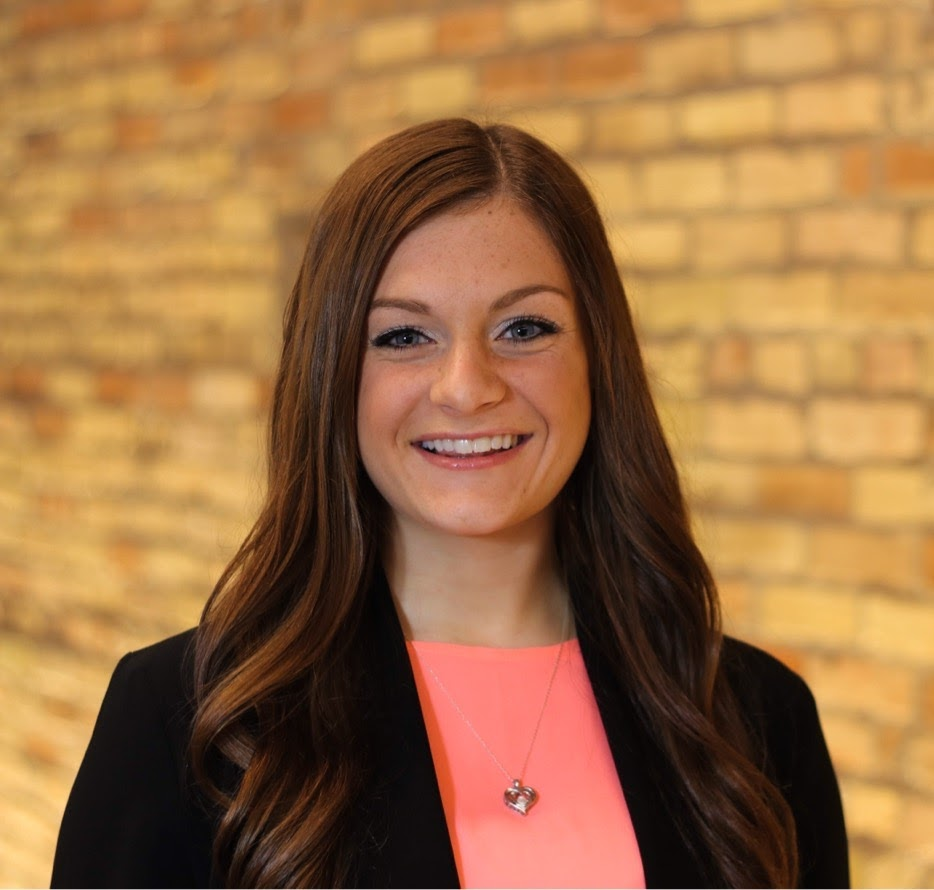
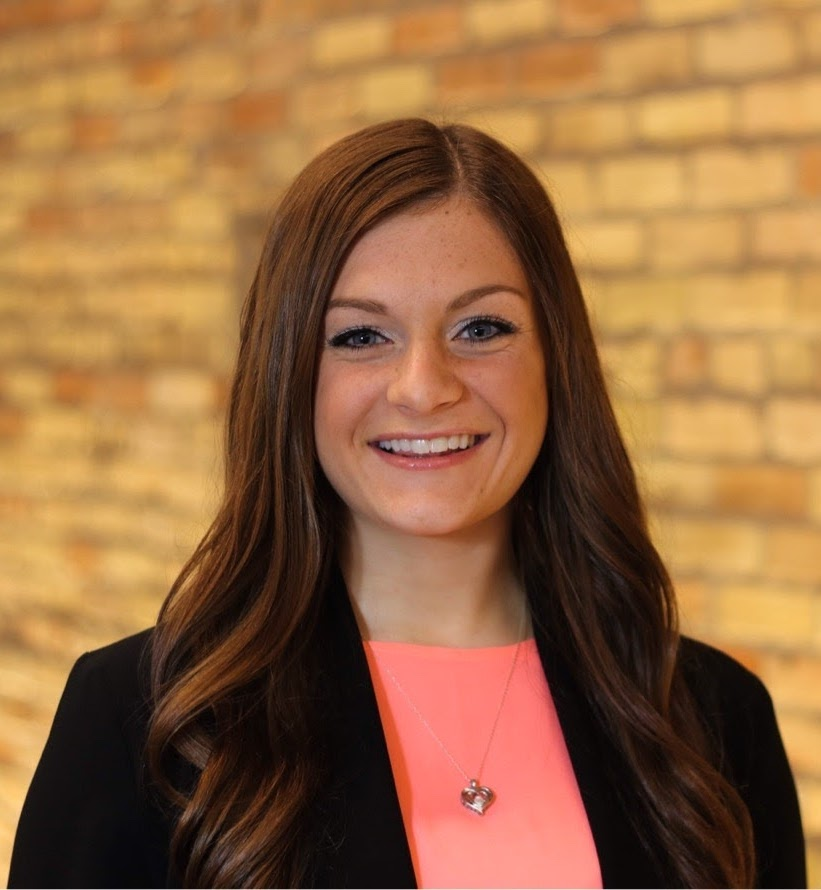
changes to pictures, tabs, removing files

diff --git a/index.html b/index.html
@@ -3,7 +3,8 @@
 	<head>
 		<title>Lexi Roberts</title>
 		<!--meta charset="UTF-8"-->
-		<link href="http://fonts.googleapis.com/css?family=Source+Sans+Pro:300,400" rel="stylesheet">
+		<!--link href="http://fonts.googleapis.com/css?family=Source+Sans+Pro:300,400" rel="stylesheet"-->
+		<script src="https://kit.fontawesome.com/yourcode.js"></script>
 		<script src="js/jquery-1.9.1.min.js"></script>
 		<script src="css/5grid/init.js?use=mobile,desktop"></script>
 		<script src="js/jquery.formerize-1.1.js"></script>
@@ -19,97 +20,110 @@
 		</noscript>
 	</head>
 	<body class="homepage">
-	<div id="wrapper">
-		<nav id="nav"> 
-	  		<a href="#me" class="icon icon-user active"><span>Me</span></a>
-	  		<a href="#work" class="icon icon-folder"><span>Work</span></a>
-	  		<a href="#email" class="icon icon-mail"><span>Email Me</span></a>
-	  		<a href="#" class="icon icon-twitter"><span>Twitter</span></a>
-	  	</nav>
-	<div id="main">
-	    <article id="me" class="panel">
-	      	<header>
-	        	<h1>Lexi Roberts</h1>
-	        	<span class="byline">Aspiring Computer Engineer</span>
-	        </header>
-	      	<a href="#work" class="jumplink pic"> 
-	      		<span class="jumplink arrow icon icon-right"><span>See my work.</span></span>
-	      		<img src="images/me.jpg" alt=""> 
-	      	</a> 
-	    </article>
-	    <article id="work" class="panel">
-	      	<header>
-	        	<h2>Work</h2>
-	      	</header>
-	      		<p> This is a sentence. </p>
-	      	<section class="5grid is-gallery">
-	        <div class="row">
-	          <div class="4u"> <a href="#" class="image image-full"><img src="images/1.jpg" alt=""></a> </div>
-	          <div class="4u"> <a href="#" class="image image-full"><img src="images/2.jpg" alt=""></a> </div>
-	          <div class="4u"> <a href="#" class="image image-full"><img src="images/3.jpg" alt=""></a> </div>
-	        </div>
-	        <div class="row">
-	          <div class="4u"> <a href="#" class="image image-full"><img src="images/4.jpg" alt=""></a> </div>
-	          <div class="4u"> <a href="#" class="image image-full"><img src="images/5.jpg" alt=""></a> </div>
-	          <div class="4u"> <a href="#" class="image image-full"><img src="images/6.jpg" alt=""></a> </div>
-	        </div>
-	        <div class="row">
-	          <div class="4u"> <a href="#" class="image image-full"><img src="images/7.jpg" alt=""></a> </div>
-	          <div class="4u"> <a href="#" class="image image-full"><img src="images/8.jpg" alt=""></a> </div>
-	          <div class="4u"> <a href="#" class="image image-full"><img src="images/9.jpg" alt=""></a> </div>
-	        </div>
-	        <div class="row">
-	          <div class="4u"> <a href="#" class="image image-full"><img src="images/10.jpg" alt=""></a> </div>
-	          <div class="4u"> <a href="#" class="image image-full"><img src="images/11.jpg" alt=""></a> </div>
-	          <div class="4u"> <a href="#" class="image image-full"><img src="images/12.jpg" alt=""></a> </div>
-	        </div>
-	        <div class="row">
-	          <div class="4u"> <a href="#" class="image image-full"><img src="images/13.jpg" alt=""></a> </div>
-	          <div class="4u"> <a href="#" class="image image-full"><img src="images/14.jpg" alt=""></a> </div>
-	          <div class="4u"> <a href="#" class="image image-full"><img src="images/15.jpg" alt=""></a> </div>
-	        </div>
-	      </section>
-	    </article>
-	    <article id="email" class="panel">
-	      <header>
-	        <h2>Email Me</h2>
-	      </header>
-	      <form action="#" method="post">
-	        <div class="5grid">
-	          <div class="row">
-	            <div class="6u">
-	              <input type="text" class="text" name="name" placeholder="Name">
-	            </div>
-	            <div class="6u">
-	              <input type="text" class="text" name="email" placeholder="Email">
-	            </div>
-	          </div>
-	          <div class="row">
-	            <div class="12u">
-	              <input type="text" class="text" name="subject" placeholder="Subject">
-	            </div>
-	          </div>
-	          <div class="row">
-	            <div class="12u">
-	              <textarea name="message" placeholder="Message"></textarea>
-	            </div>
-	          </div>
-	          <div class="row">
-	            <div class="12u">
-	              <input type="submit" class="button" value="Send Message">
-	            </div>
-	          </div>
-	        </div>
-	      </form>
-	    </article>
-	  </div>
-	  <div id="footer">
-	    <ul class="links">
-	      <li>&copy; Lexi Roberts</li>
-	      <!--<li>Images : <a href="http://fotogrph.com/">fotogrph</a></li>
-	      <li>Design : <a href="http://html5up.net/">HTML5 Up!</a></li>-->
-	    </ul>
-	  </div>
-	</div>
+		<div id="wrapper">
+			<nav id="nav"> 
+		  		<a href="#me" class="icon icon-user active"><span>About Me</span></a>
+		  		<a href="#resume" class="icon icon-file"><span>Resume</span></a>
+		  		<a href="#work" class="icon icon-folder"><span>Work</span></a>
+		  		<a href="#email" class="icon icon-mail"><span>Email Me</span></a>
+		  		<a href="#" class="icon icon-twitter"><span>Twitter</span></a>
+		  	</nav>
+			<div id="main">
+			    
+			    <article id="me" class="panel">
+			      	<header>
+			        	<h1>Lexi Roberts</h1>
+			        	<span class="byline">Aspiring Computer Engineer</span>
+			        </header>
+			      	<a href="#resume" class="jumplink pic"> 
+			      		<span class="jumplink arrow icon icon-right"><span>See my work.</span></span>
+			      		<img src="images/lexi_crop2.jpg" alt=""> 
+			      	</a> 
+			    </article>
+			    
+			    <article id="resume" class="panel">
+			    	<div class="row">
+	            		<div class="12u">
+	              			<input class="button" value="Download Now">
+	            		</div>
+	          		</div>
+			    </article>
+
+			    <article id="work" class="panel">
+			      	<header>
+			        	<h2>Work</h2>
+			      	</header>
+			      	<p> This is a sentence. </p>
+			      	<section class="5grid is-gallery">
+			        	<div class="row">
+			          		<div class="4u"> <a href="#" class="image image-full"><img src="images/1.jpg" alt=""></a> </div>
+			          		<div class="4u"> <a href="#" class="image image-full"><img src="images/2.jpg" alt=""></a> </div>
+			          		<div class="4u"> <a href="#" class="image image-full"><img src="images/3.jpg" alt=""></a> </div>
+			        	</div>
+			        	<div class="row">
+			          		<div class="4u"> <a href="#" class="image image-full"><img src="images/4.jpg" alt=""></a> </div>
+			          		<div class="4u"> <a href="#" class="image image-full"><img src="images/5.jpg" alt=""></a> </div>
+			          		<div class="4u"> <a href="#" class="image image-full"><img src="images/6.jpg" alt=""></a> </div>
+			        	</div>
+			        	<div class="row">
+			          		<div class="4u"> <a href="#" class="image image-full"><img src="images/7.jpg" alt=""></a> </div>
+			          		<div class="4u"> <a href="#" class="image image-full"><img src="images/8.jpg" alt=""></a> </div>
+			          		<div class="4u"> <a href="#" class="image image-full"><img src="images/9.jpg" alt=""></a> </div>
+			        	</div>
+			        	<div class="row">
+			          		<div class="4u"> <a href="#" class="image image-full"><img src="images/10.jpg" alt=""></a> </div>
+			          		<div class="4u"> <a href="#" class="image image-full"><img src="images/11.jpg" alt=""></a> </div>
+			          		<div class="4u"> <a href="#" class="image image-full"><img src="images/12.jpg" alt=""></a> </div>
+			       		</div>
+			        	<div class="row">
+			          		<div class="4u"> <a href="#" class="image image-full"><img src="images/13.jpg" alt=""></a> </div>
+			          		<div class="4u"> <a href="#" class="image image-full"><img src="images/14.jpg" alt=""></a> </div>
+			          		<div class="4u"> <a href="#" class="image image-full"><img src="images/15.jpg" alt=""></a> </div>
+			        	</div>
+			      	</section>
+			    </article>
+			    
+			    <article id="email" class="panel">
+			      	<header>
+			        	<h2>Email Me</h2>
+			      	</header>
+			      	<form action="#" method="post">
+			        	<div class="5grid">
+			          		<div class="row">
+			            		<div class="6u">
+			              			<input type="text" class="text" name="name" placeholder="Name">
+			            		</div>
+			            		<div class="6u">
+			              			<input type="text" class="text" name="email" placeholder="Email">
+			            		</div>
+			          		</div>
+			          		<div class="row">
+			            		<div class="12u">
+			              			<input type="text" class="text" name="subject" placeholder="Subject">
+			            		</div>
+			          		</div>
+			          		<div class="row">
+			            		<div class="12u">
+			              			<textarea name="message" placeholder="Message"></textarea>
+			            		</div>
+			          		</div>
+			          		<div class="row">
+			            		<div class="12u">
+			              			<input type="submit" class="button" value="Send Message">
+			            		</div>
+			          		</div>
+			        	</div>
+			      	</form>
+			   </article>
+			
+			</div>
+			<div id="footer">
+				<ul class="links">
+			      <li>&copy; Lexi Roberts</li>
+			      <!--<li>Images : <a href="http://fotogrph.com/">fotogrph</a></li>
+			      <li>Design : <a href="http://html5up.net/">HTML5 Up!</a></li>-->
+			    </ul>
+			</div>
+		</div>
 	</body>
 </html>

diff --git a/css/style.css b/css/style.css
@@ -37,7 +37,7 @@
 			Fallback for browsers that don't support pseudo elements.
 		*/
 
-		background: url('images/bg.jpg');
+		background: url('images/city.jpg');
 	}
 
 		body:before
@@ -56,7 +56,7 @@
 				set background-size to "cover".
 			*/
 
-			background: url('images/bg.jpg');
+			background: url('images/city.jpg');
 			background-size: 100% 100%;
 		}
 
@@ -73,7 +73,7 @@
 			top: 0;
 			width: 100%;
 			height: 100%;
-			background: url('images/overlay.png');
+			background: url('images/overlay.jpg');
 			z-index: -1;
 		}
 	
@@ -443,6 +443,7 @@
 	.icon-file:before			{ content: '\E048'; }
 	.icon-folder:before			{ content: '\E04c'; }
 	.icon-info:before			{ content: '\E075'; }
+	.icon-login:before			{ content: '\E087'; }
 	.icon-mail:before			{ content: '\E08a'; }
 	.icon-notify:before			{ content: '\E097'; }
 	.icon-right:before			{ content: '\E112'; }
@@ -511,8 +512,8 @@
 					The pseudo element below applies a noise pattern to the "me" image. It's
 					meant to help mask blurriness, but you can remove it if you don't like it.
 				*/
-			
-				#me .pic:before
+				
+				/*#me .pic:before
 				{
 					content: '';
 					position: absolute;
@@ -522,7 +523,7 @@
 					width: 100%;
 					height: 100%;
 					z-index: 1;
-				}
+				}*/
 
 /*********************************************************************************/
 /* Footer                                                                        */
